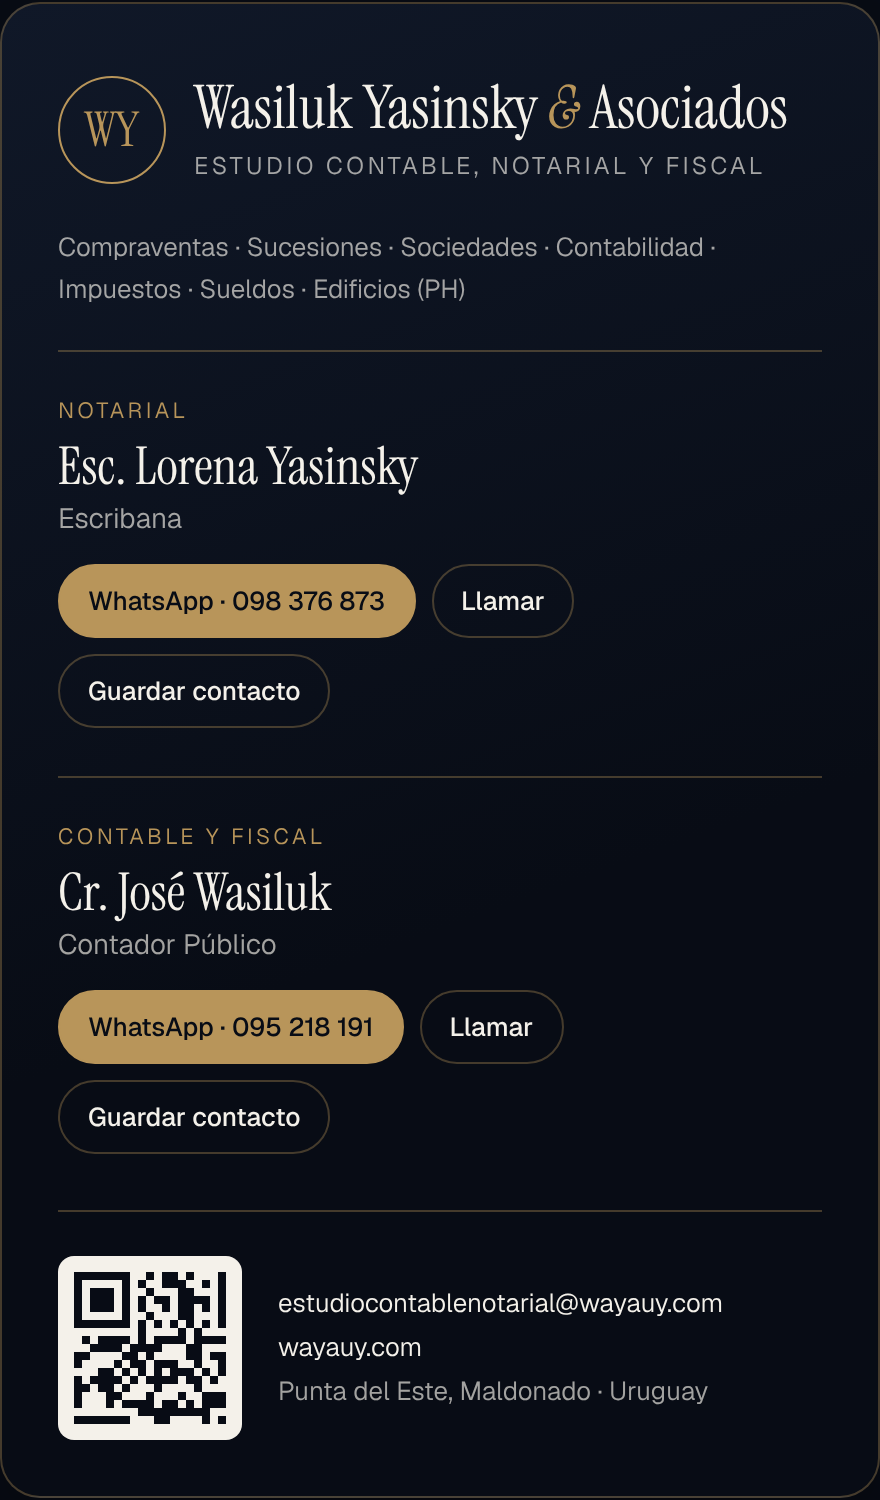
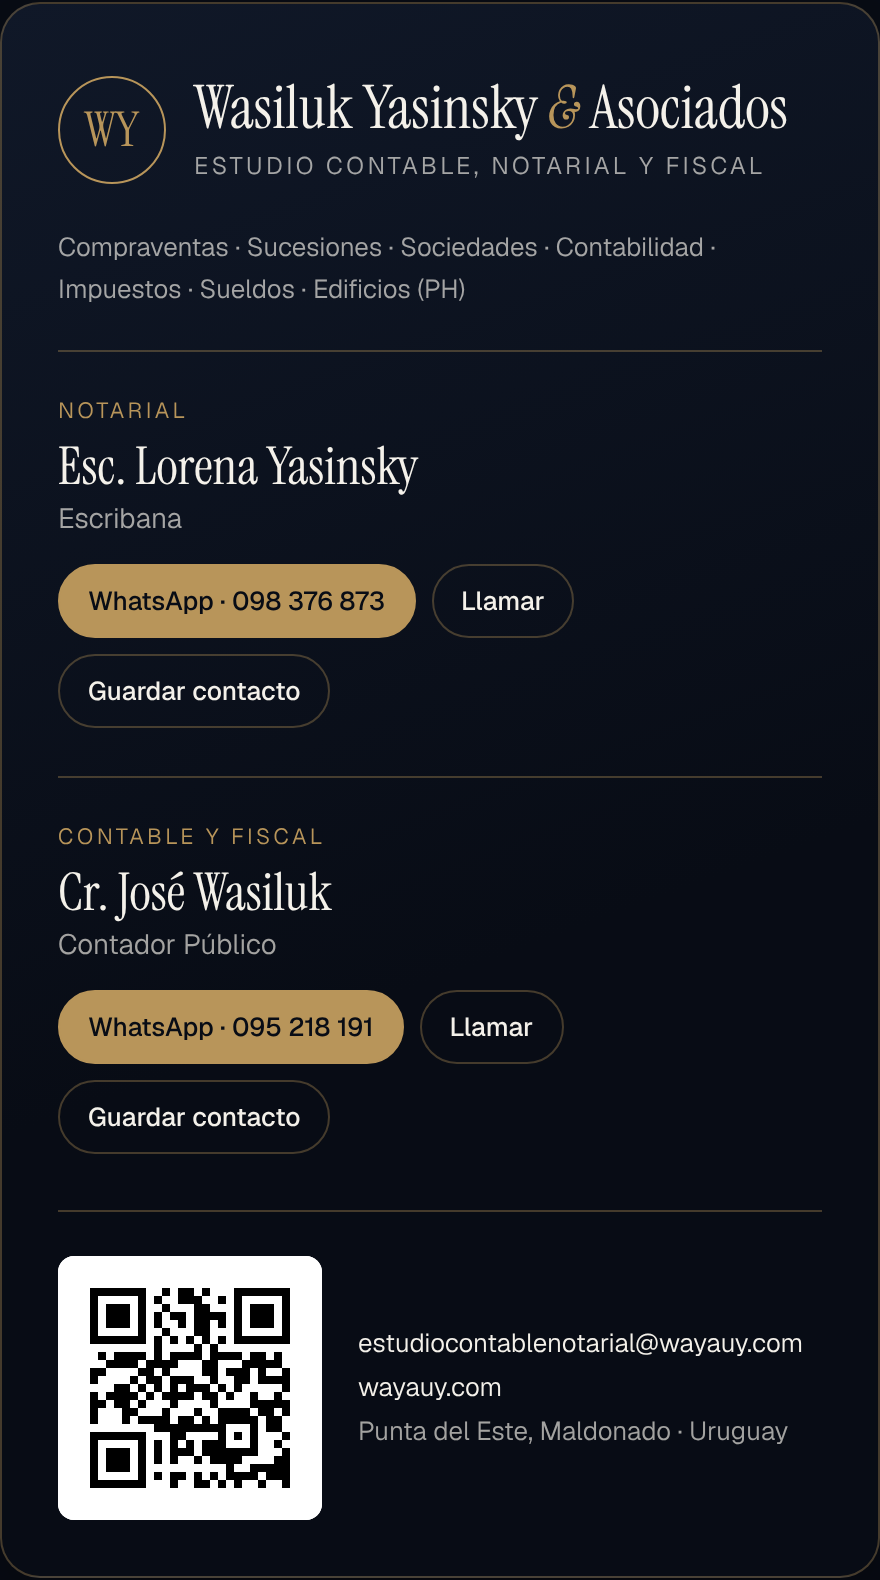
Corregir QR recortado de la tarjeta virtual
El SVG llevaba ancho y alto fijos sin viewBox, así que el CSS lo recortaba
en vez de escalarlo y ninguna cámara podía leerlo. Ahora usa viewBox, margen
blanco de 4 módulos y negro puro; verificado con un decodificador de QR.

Claude-Session: https://claude.ai/code/session_01H5G8dghvJdDM28qL8wmEHD

diff --git a/tarjeta/index.html b/tarjeta/index.html
@@ -31,8 +31,8 @@ h2 { font-family:"Instrument Serif",serif; font-weight:400; font-size:26px; marg
 .btn:hover { border-color:var(--dorado); }
 .btn.principal { background:var(--dorado); border-color:var(--dorado); color:var(--tinta); }
 .pie { border-top:1px solid var(--linea); margin-top:24px; padding-top:22px; display:flex; gap:18px; align-items:center; }
-.pie .qr { background:var(--papel); padding:8px; border-radius:8px; flex:none; line-height:0; }
-.pie .qr svg { width:76px; height:76px; }
+.pie .qr { background:#fff; border-radius:8px; flex:none; line-height:0; overflow:hidden; }
+.pie .qr svg { width:132px; height:132px; display:block; }
 .pie p { font-size:13px; line-height:1.7; color:var(--suave); word-break:break-word; }
 .pie a { color:var(--papel); text-decoration:none; }
 </style>
@@ -66,7 +66,7 @@ h2 { font-family:"Instrument Serif",serif; font-weight:400; font-size:26px; marg
       </div>
     </article>
   <footer class="pie">
-    <div class="qr" aria-label="Código QR a wayauy.com"><svg width="100" height="100" class="segno"><path transform="scale(4)" class="qrline" stroke="#080c15" d="M0 0.5h7m2 0h1m1 0h2m1 0h1m3 0h7m-25 1h1m5 0h1m1 0h1m2 0h3m2 0h1m1 0h1m5 0h1m-25 1h1m1 0h3m1 0h1m2 0h1m3 0h2m3 0h1m1 0h3m1 0h1m-25 1h1m1 0h3m1 0h1m1 0h1m1 0h2m1 0h4m1 0h1m1 0h3m1 0h1m-25 1h1m1 0h3m1 0h1m1 0h1m2 0h1m1 0h2m1 0h1m1 0h1m1 0h3m1 0h1m-25 1h1m5 0h1m2 0h1m3 0h2m3 0h1m5 0h1m-25 1h7m1 0h1m1 0h1m1 0h1m1 0h1m1 0h1m1 0h7m-17 1h1m4 0h1m1 0h1m-15 1h1m1 0h4m1 0h1m1 0h4m1 0h4m1 0h2m1 0h1m-22 1h4m1 0h4m3 0h2m3 0h5m-24 1h2m4 0h2m1 0h1m4 0h2m1 0h3m1 0h1m2 0h1m-25 1h1m4 0h1m1 0h2m1 0h3m2 0h1m2 0h2m1 0h4m-22 1h2m1 0h1m1 0h1m1 0h1m1 0h3m1 0h1m1 0h1m5 0h1m-25 1h1m1 0h4m1 0h1m1 0h4m1 0h2m1 0h1m2 0h1m2 0h1m-24 1h2m1 0h2m1 0h1m3 0h1m4 0h1m4 0h5m-25 1h1m3 0h2m3 0h1m3 0h1m2 0h4m1 0h2m1 0h1m-25 1h1m3 0h1m1 0h4m1 0h2m1 0h1m1 0h5m1 0h2m-16 1h9m3 0h1m1 0h2m-24 1h7m3 0h2m4 0h1m1 0h1m1 0h1m3 0h1m-25 1h1m5 0h1m1 0h1m1 0h1m1 0h1m1 0h3m3 0h1m2 0h1m-24 1h1m1 0h3m1 0h1m1 0h1m1 0h3m1 0h7m3 0h1m-25 1h1m1 0h3m1 0h1m1 0h1m1 0h1m2 0h1m1 0h4m4 0h2m-25 1h1m1 0h3m1 0h1m10 0h1m2 0h5m-25 1h1m5 0h1m1 0h1m1 0h2m1 0h1m1 0h1m1 0h4m1 0h3m-25 1h7m3 0h1m2 0h2m1 0h1m1 0h1m2 0h1m2 0h1"/></svg></div>
+    <div class="qr" aria-label="Código QR a wayauy.com"><svg viewBox="0 0 33 33" class="segno"><path fill="#fff" d="M0 0h33v33h-33z"/><path class="qrline" stroke="#000" d="M4 4.5h7m2 0h1m1 0h2m1 0h1m3 0h7m-25 1h1m5 0h1m1 0h1m2 0h3m2 0h1m1 0h1m5 0h1m-25 1h1m1 0h3m1 0h1m2 0h1m3 0h2m3 0h1m1 0h3m1 0h1m-25 1h1m1 0h3m1 0h1m1 0h1m1 0h2m1 0h4m1 0h1m1 0h3m1 0h1m-25 1h1m1 0h3m1 0h1m1 0h1m2 0h1m1 0h2m1 0h1m1 0h1m1 0h3m1 0h1m-25 1h1m5 0h1m2 0h1m3 0h2m3 0h1m5 0h1m-25 1h7m1 0h1m1 0h1m1 0h1m1 0h1m1 0h1m1 0h7m-17 1h1m4 0h1m1 0h1m-15 1h1m1 0h4m1 0h1m1 0h4m1 0h4m1 0h2m1 0h1m-22 1h4m1 0h4m3 0h2m3 0h5m-24 1h2m4 0h2m1 0h1m4 0h2m1 0h3m1 0h1m2 0h1m-25 1h1m4 0h1m1 0h2m1 0h3m2 0h1m2 0h2m1 0h4m-22 1h2m1 0h1m1 0h1m1 0h1m1 0h3m1 0h1m1 0h1m5 0h1m-25 1h1m1 0h4m1 0h1m1 0h4m1 0h2m1 0h1m2 0h1m2 0h1m-24 1h2m1 0h2m1 0h1m3 0h1m4 0h1m4 0h5m-25 1h1m3 0h2m3 0h1m3 0h1m2 0h4m1 0h2m1 0h1m-25 1h1m3 0h1m1 0h4m1 0h2m1 0h1m1 0h5m1 0h2m-16 1h9m3 0h1m1 0h2m-24 1h7m3 0h2m4 0h1m1 0h1m1 0h1m3 0h1m-25 1h1m5 0h1m1 0h1m1 0h1m1 0h1m1 0h3m3 0h1m2 0h1m-24 1h1m1 0h3m1 0h1m1 0h1m1 0h3m1 0h7m3 0h1m-25 1h1m1 0h3m1 0h1m1 0h1m1 0h1m2 0h1m1 0h4m4 0h2m-25 1h1m1 0h3m1 0h1m10 0h1m2 0h5m-25 1h1m5 0h1m1 0h1m1 0h2m1 0h1m1 0h1m1 0h4m1 0h3m-25 1h7m3 0h1m2 0h2m1 0h1m1 0h1m2 0h1m2 0h1"/></svg></div>
     <p><a href="mailto:estudiocontablenotarial@wayauy.com">estudiocontablenotarial@wayauy.com</a><br><a href="https://wayauy.com/">wayauy.com</a><br>Punta del Este, Maldonado · Uruguay</p>
   </footer>
 </main>

diff --git a/herramientas/tarjeta.py b/herramientas/tarjeta.py
@@ -22,7 +22,8 @@ def vcard(p):
         "END:VCARD", ""])
 
 
-qr = segno.make(URL, error="m").svg_inline(dark=f"#{TINTA}", light=None, scale=4, border=0)
+# Margen blanco de 4 módulos, negro puro y viewBox (omitsize) para que el CSS escale el QR entero sin recortarlo
+qr = segno.make(URL, error="m").svg_inline(dark="#000000", light="#FFFFFF", border=4, omitsize=True)
 
 personas_html = ""
 for p in PERSONAS:
@@ -77,8 +78,8 @@ h2 {{ font-family:"Instrument Serif",serif; font-weight:400; font-size:26px; mar
 .btn:hover {{ border-color:var(--dorado); }}
 .btn.principal {{ background:var(--dorado); border-color:var(--dorado); color:var(--tinta); }}
 .pie {{ border-top:1px solid var(--linea); margin-top:24px; padding-top:22px; display:flex; gap:18px; align-items:center; }}
-.pie .qr {{ background:var(--papel); padding:8px; border-radius:8px; flex:none; line-height:0; }}
-.pie .qr svg {{ width:76px; height:76px; }}
+.pie .qr {{ background:#fff; border-radius:8px; flex:none; line-height:0; overflow:hidden; }}
+.pie .qr svg {{ width:132px; height:132px; display:block; }}
 .pie p {{ font-size:13px; line-height:1.7; color:var(--suave); word-break:break-word; }}
 .pie a {{ color:var(--papel); text-decoration:none; }}
 </style>
